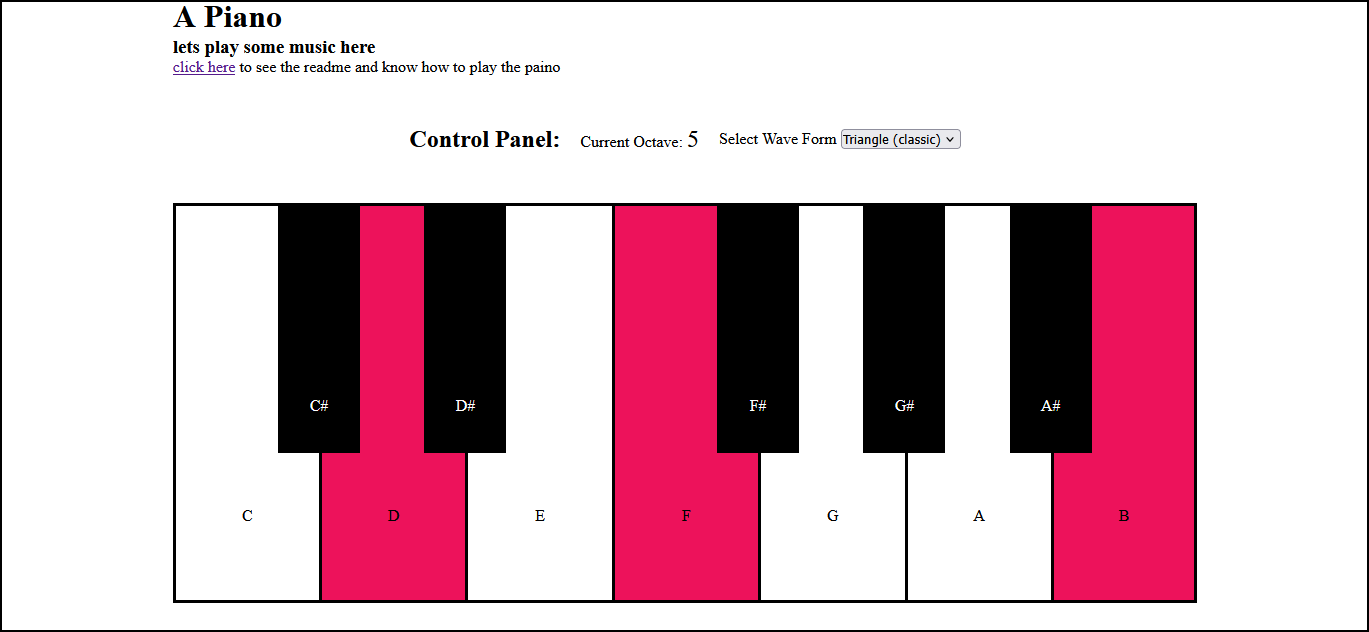
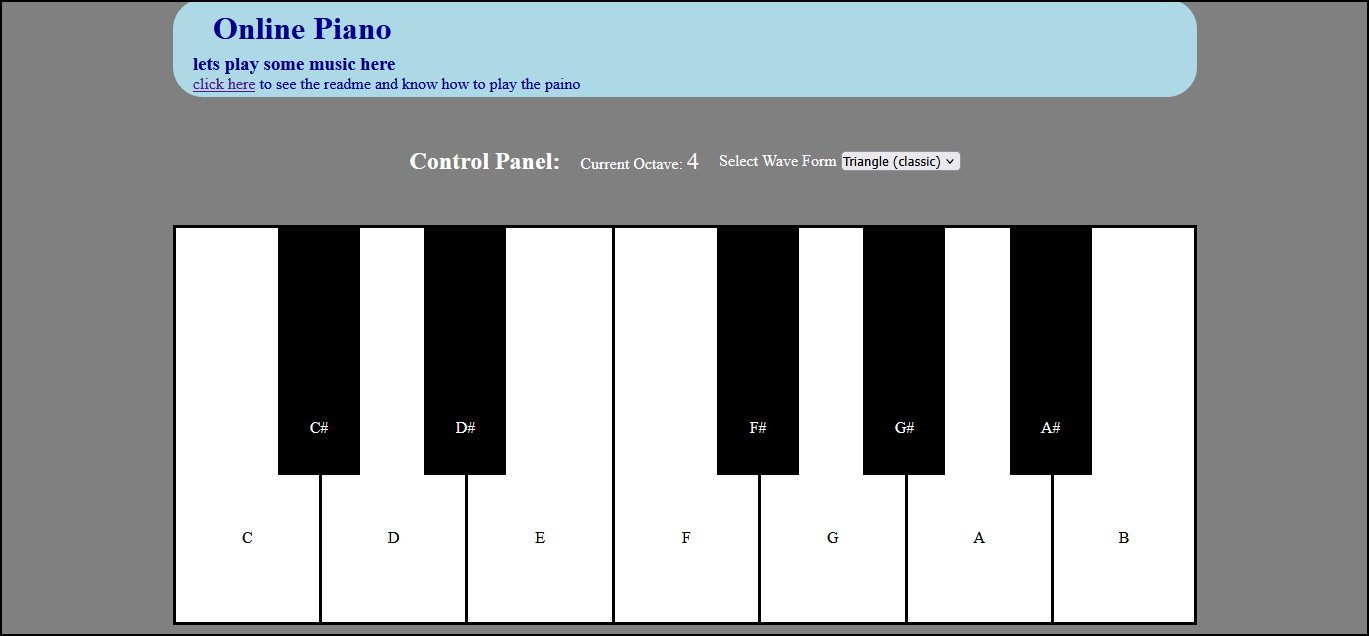
changed readme

diff --git a/README.md b/README.md
@@ -39,6 +39,10 @@ you can choose the wave form that you like for the piano from the selector which
 - square
 - sawtooth
 
+## Tutorial page
+
+also added a tutorial page for newcomers to learn how to use the piano
+
 ## Technology used
 
 this website is made using pure html css javascript and a java script library called Tone.js to produce the tones
